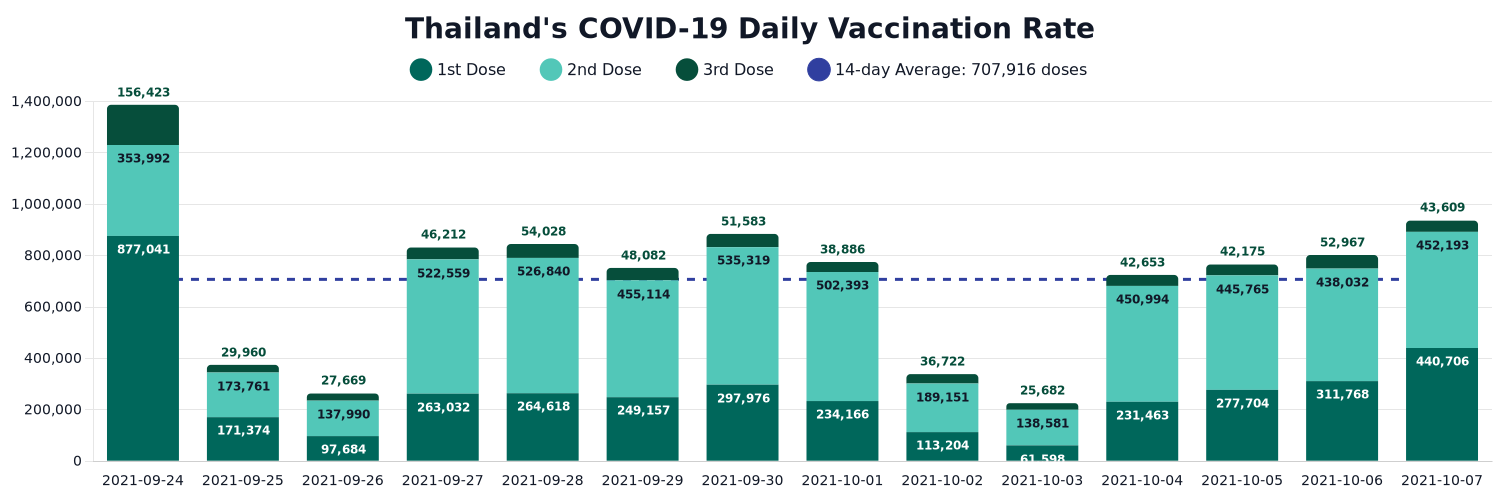
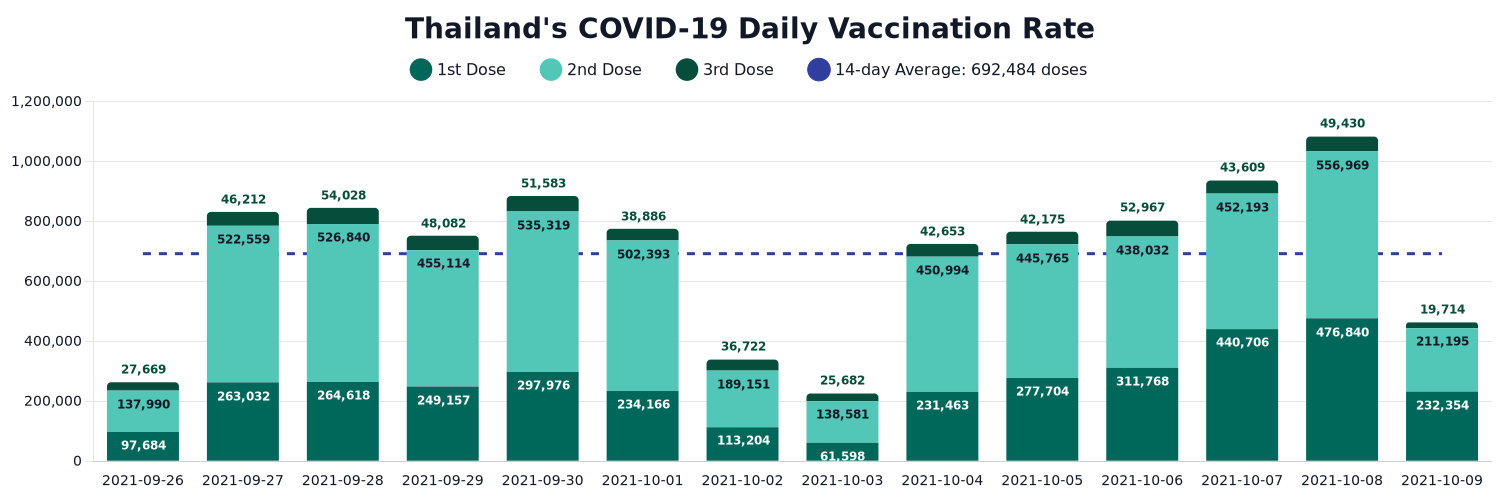
update vaccine data

diff --git a/index.js b/index.js
@@ -14,7 +14,7 @@ const progressBarLength = 20
 
 const checkDate = () => {
   const date = new Date()
-  const day = date.getDate()
+  const day = date.getDate() - 1
   const month = date.getMonth() + 1
   const year = date.getFullYear()
   const fullDate = `${year}-${month < 10 ? "0" + month : month}-${day < 10 ? "0" + day : day}`
